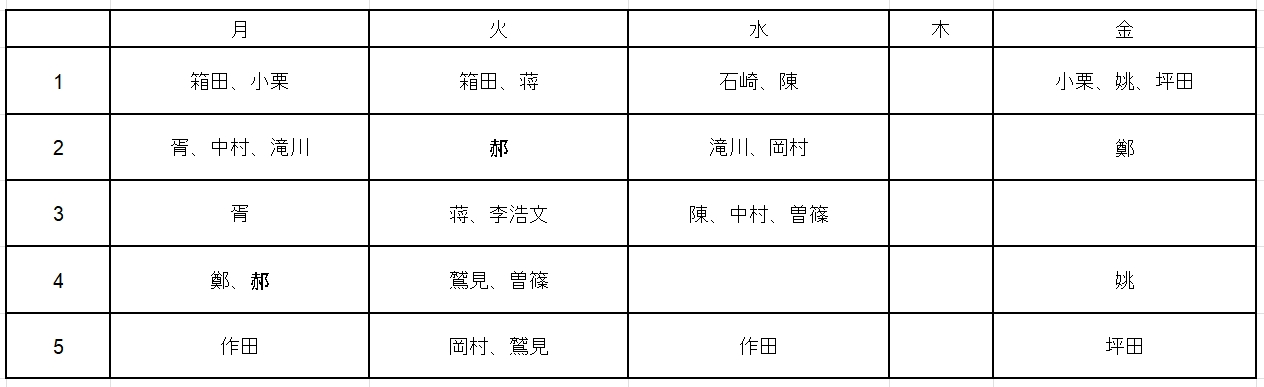
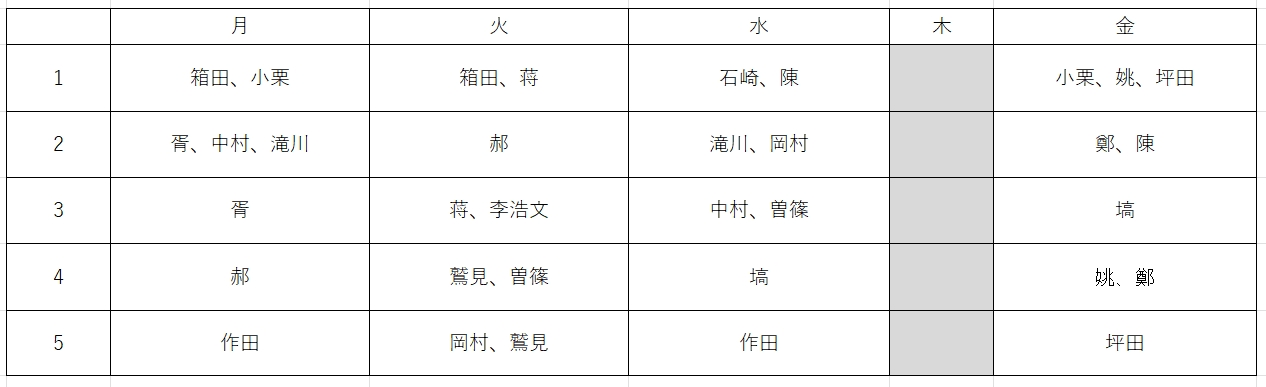
2024秋学期駐在表の修正更新及びSA一名追加プロフィールの更新
2024秋学期駐在表の修正更新及びSA一名追加プロフィールの更新

diff --git a/pages/tasa.html b/pages/tasa.html
@@ -388,6 +388,27 @@
           </div>
         </div>
         
+
+        <div class="col-6 col-lg-3 p-2 p-lg-3">
+          <div class="card h-100 border-0 p-2 px-sm-5">
+            <div class="ratio ratio-1x1">
+              <img
+                src="../upload/tasa_profile/hanawa.jpg"
+                class="card-img rounded-circle shadow"
+                alt="..."
+              />
+            </div>
+
+            <h4 class="card-title text-center mt-2">塙 雄太郎</h4>
+            <p class="text-center">
+              <b>学部2年</b>
+              <br />
+              インテンシブ3まで履修しました！ぜひ一緒に中国語頑張りましょう！
+            </p>
+          </div>
+        </div>
+
+
         <div class="col-6 col-lg-3 p-2 p-lg-3">
           <div class="card h-100 border-0 p-2 px-sm-5">
             <div class="ratio ratio-1x1">
